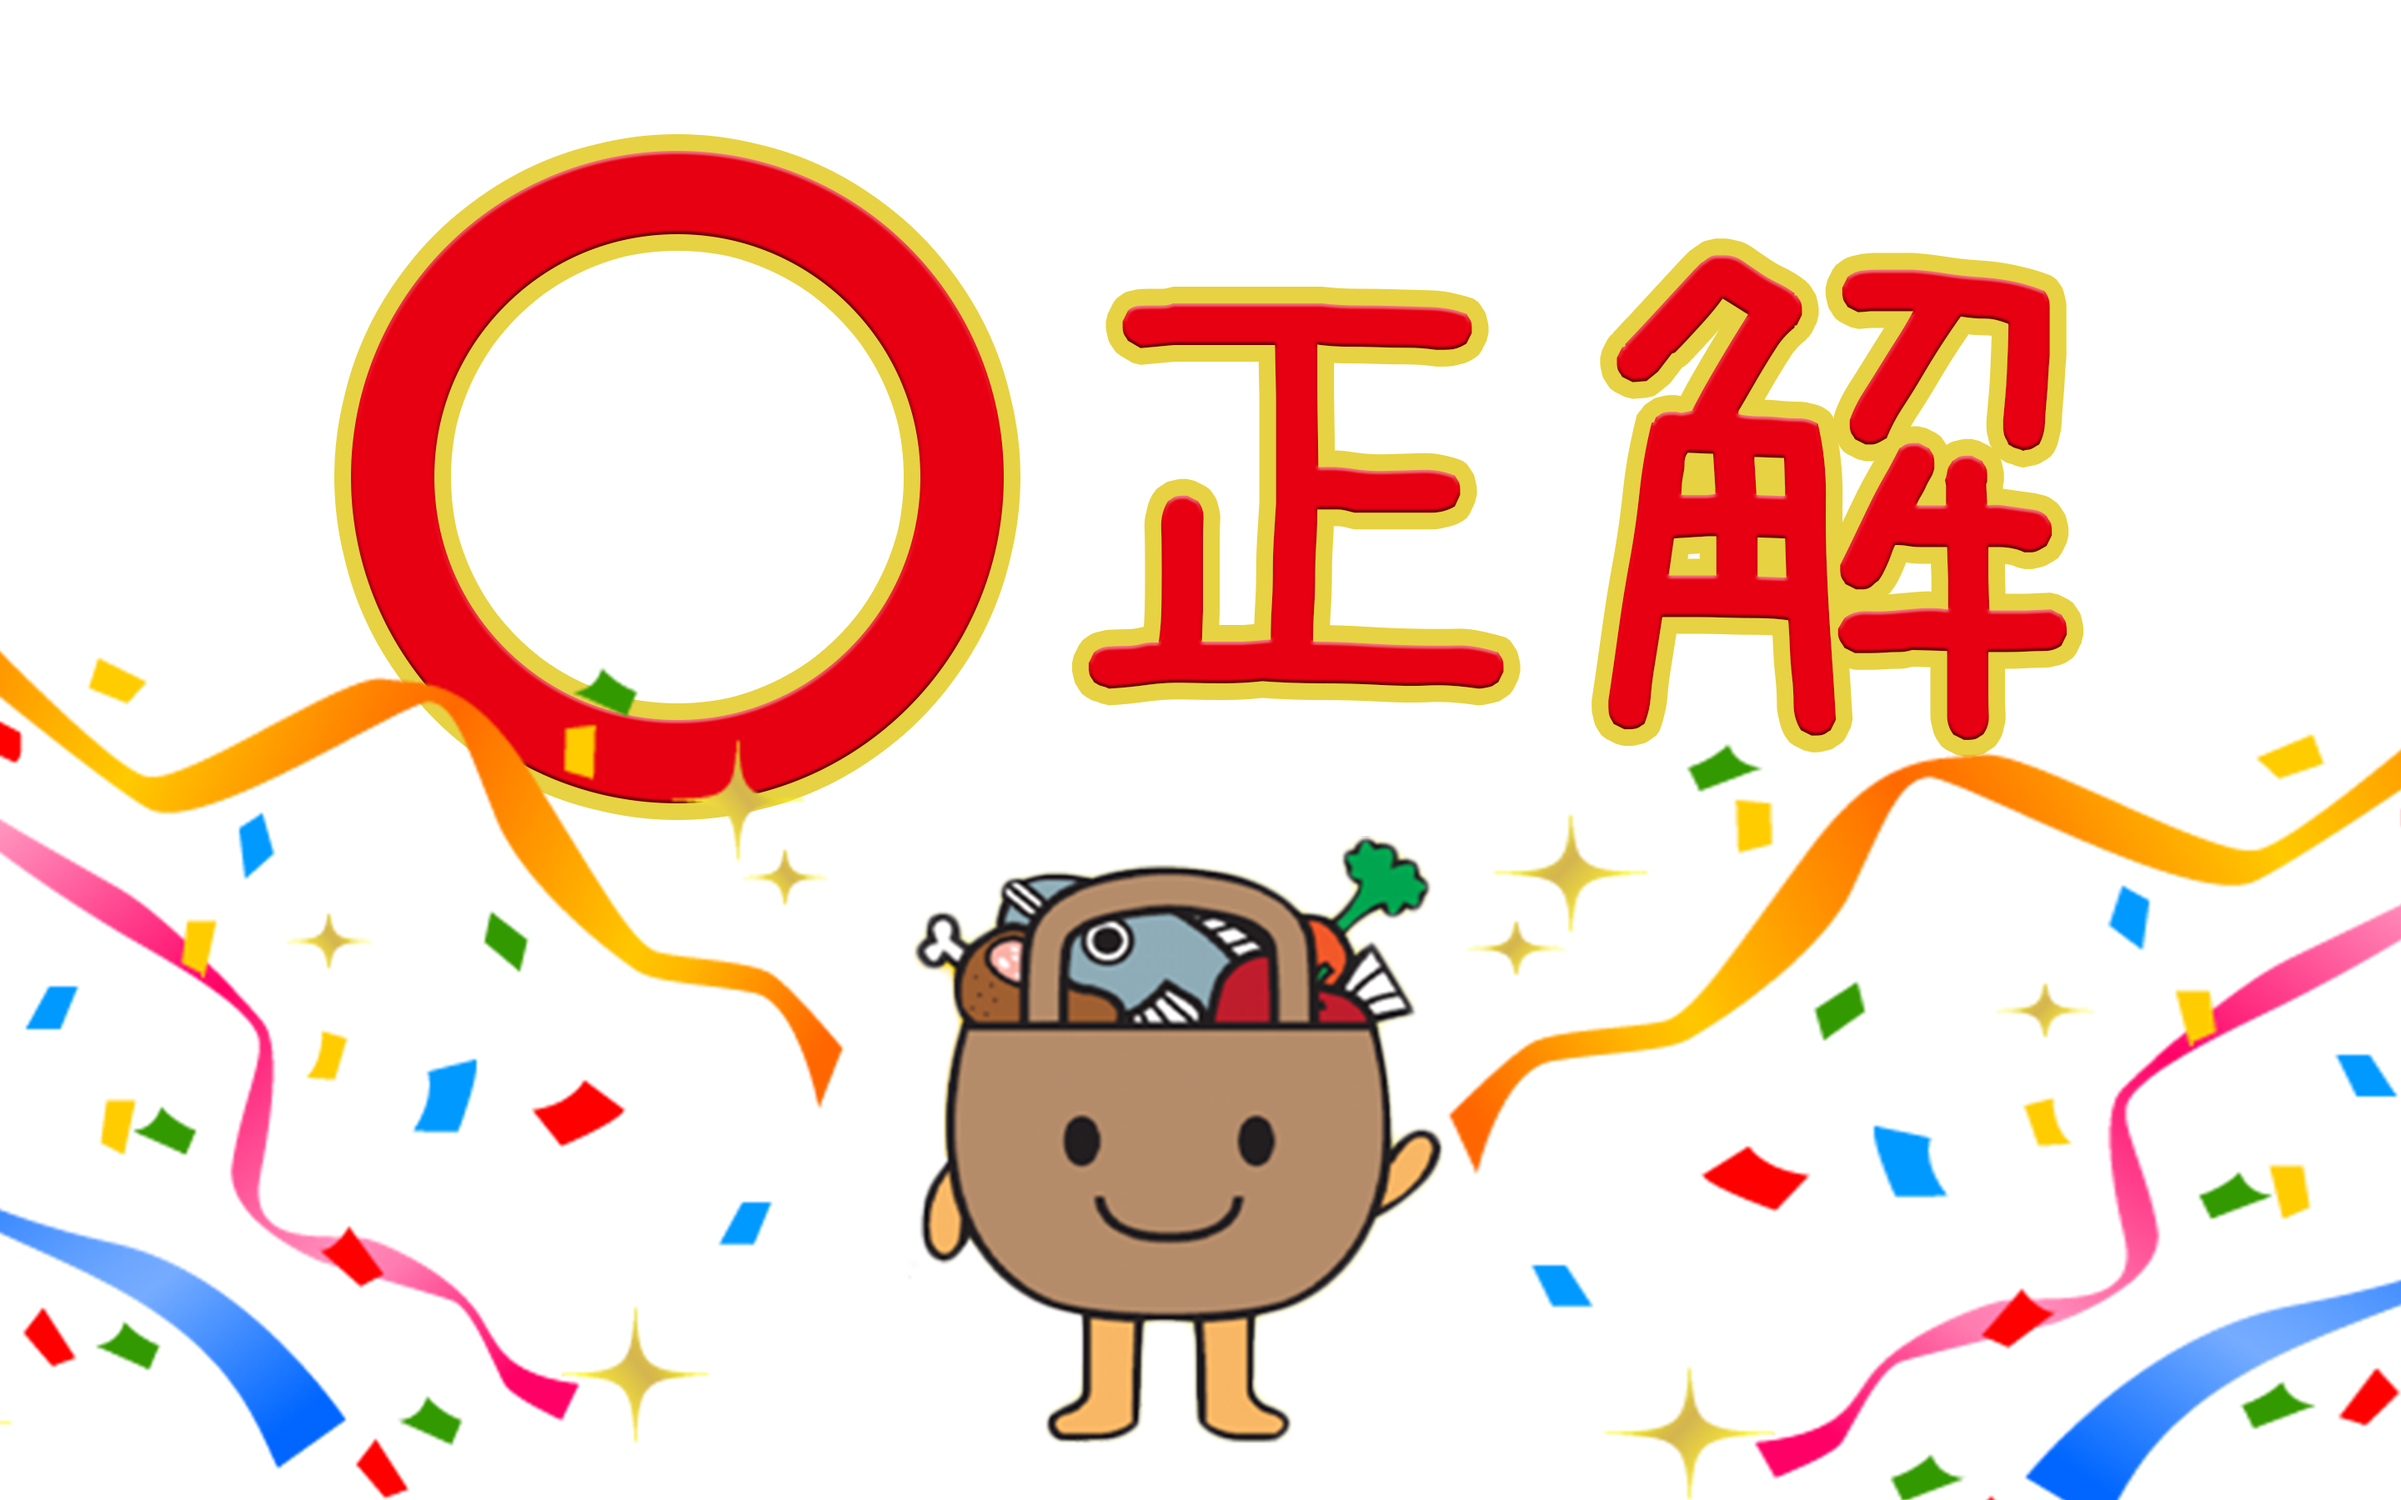
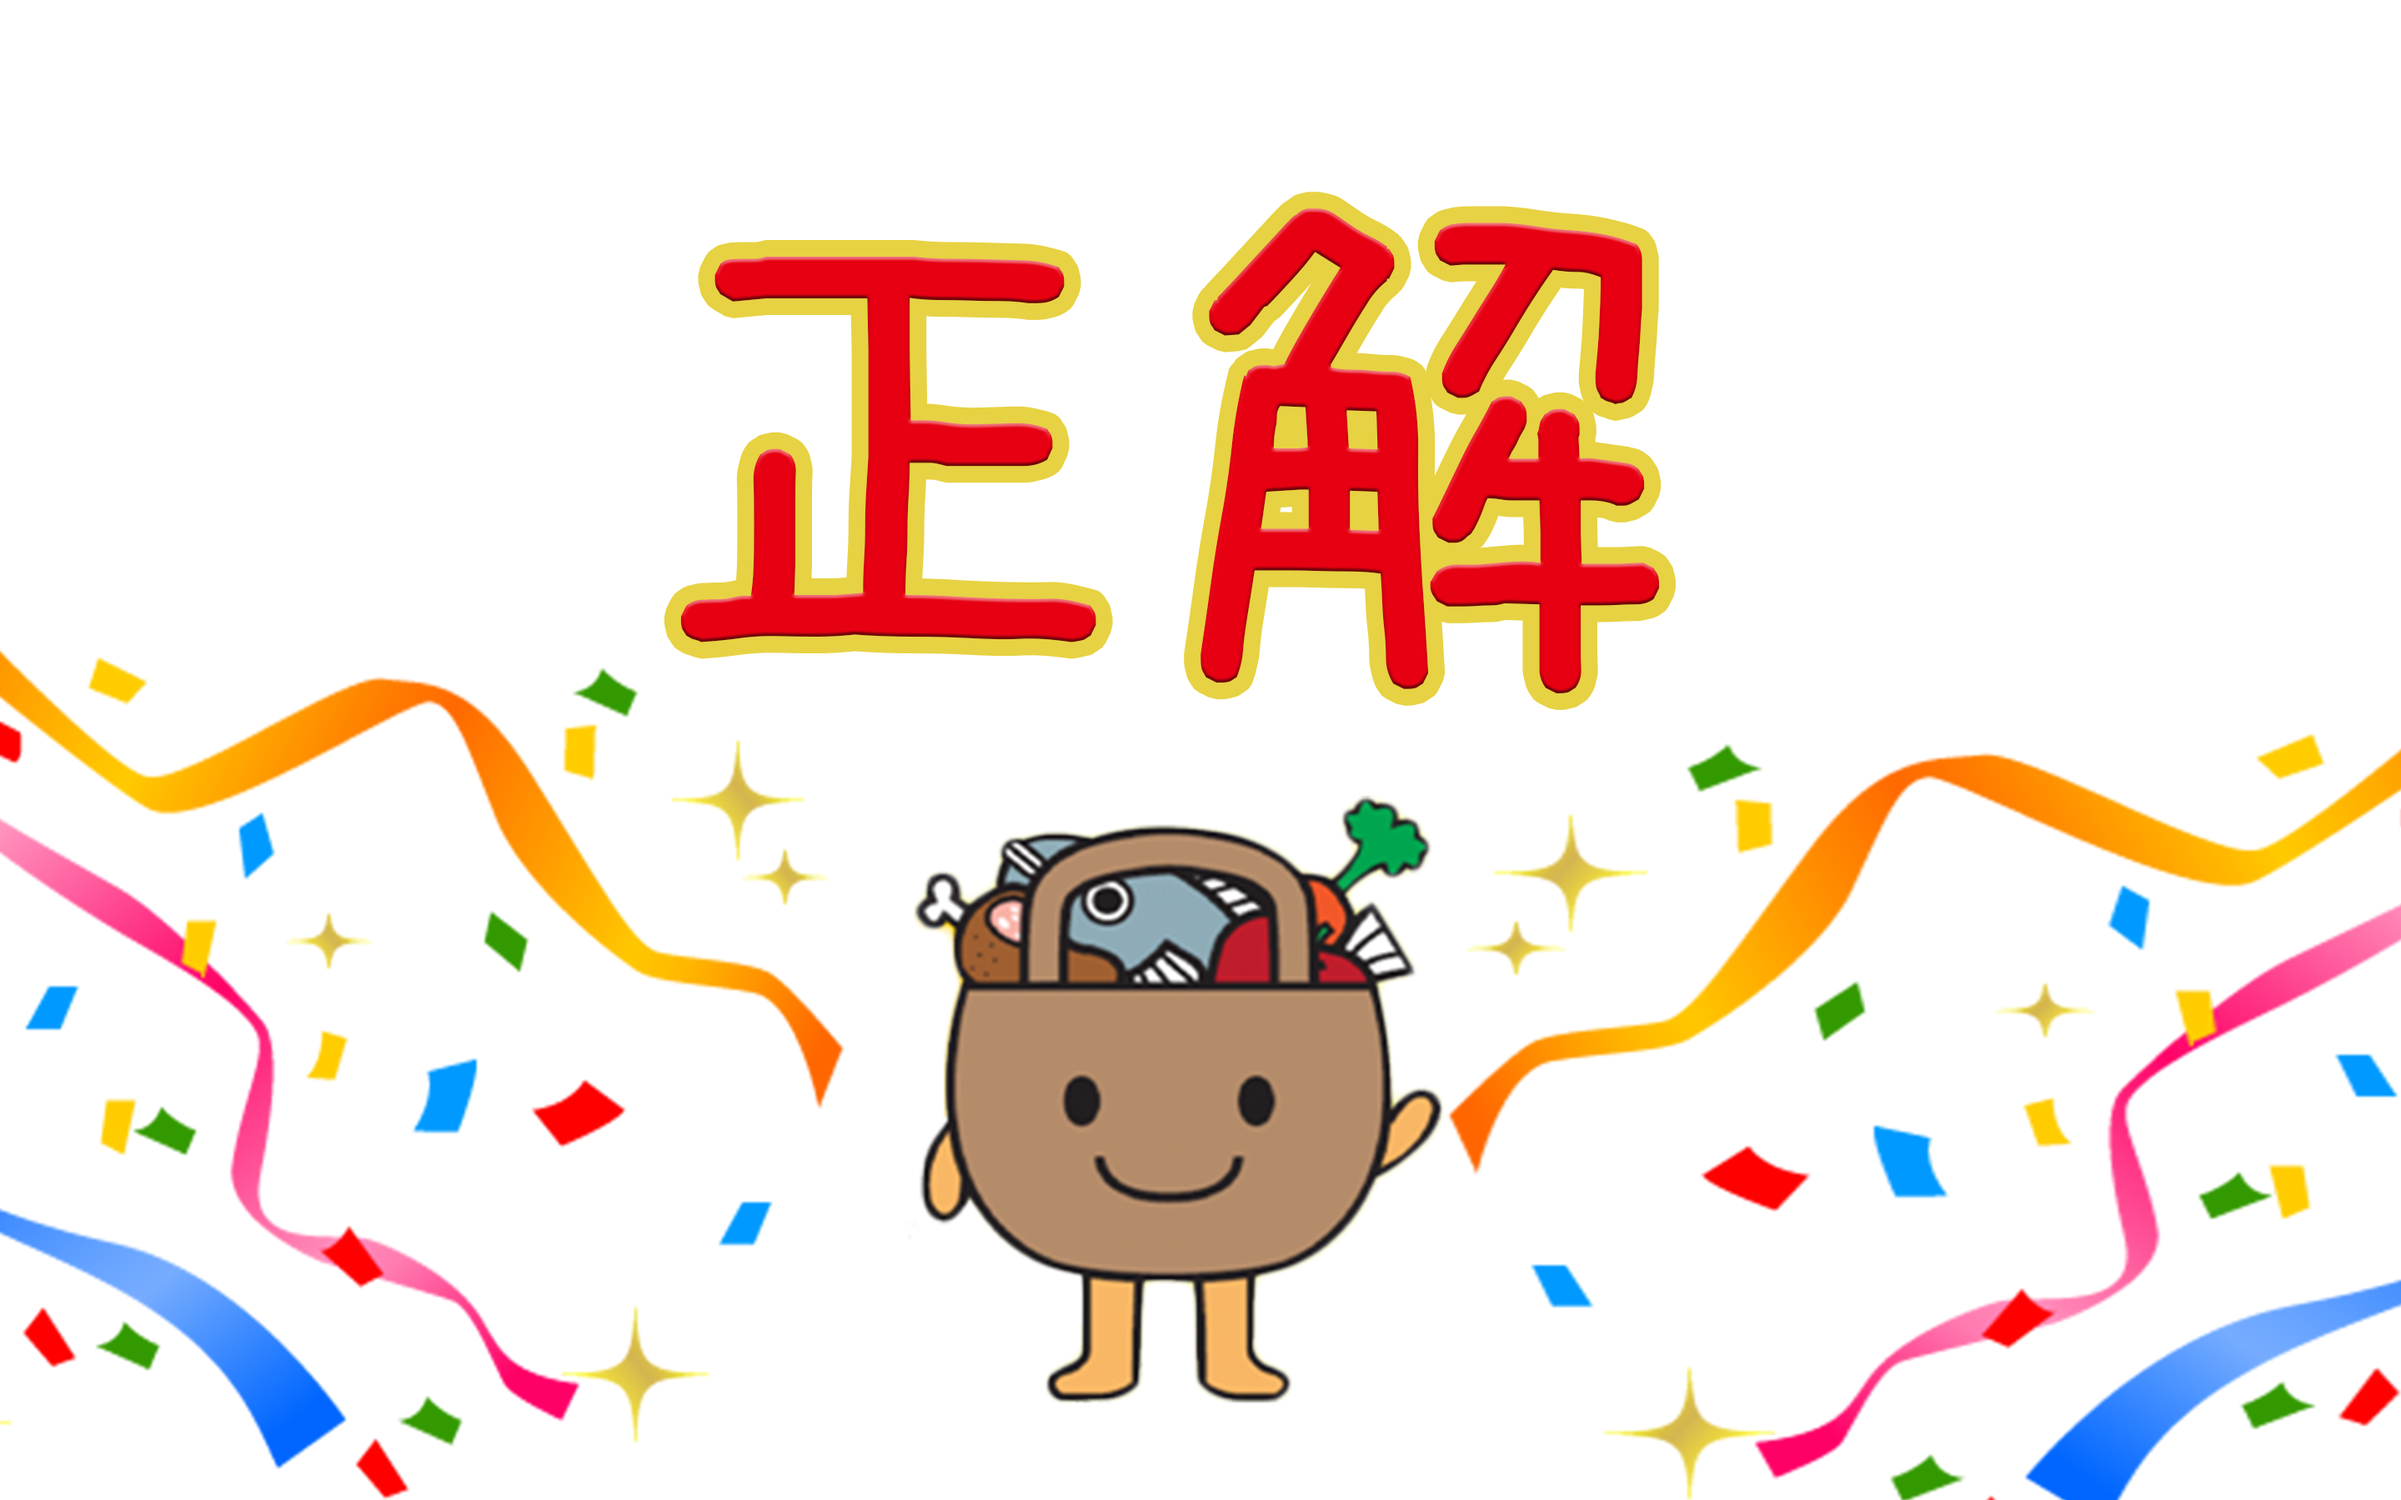
[update] 問題表示画面のおこをそーごちゃんに変更

Changed region(s): [[0.125, 0.0933, 0.875, 0.56], [0.375, 0.5289, 0.625, 0.9644]]

diff --git a/html/index.html b/html/index.html
@@ -61,7 +61,7 @@
               </div>
               <div class="quiz__choice clearfix">
                 <p class="quiz__choice__A"><a class="link" id="link_A" href="#"><img class="image" src="../img/icon_maru.png" alt="選択肢まる"></a></p>
-                <p class="quiz__choice__soogo"><img class="image" src="../img/jk01.png" alt="仮そーご"></p>
+                <p class="quiz__choice__soogo"><img class="image" src="../img/soogo01.png" alt="仮そーご"></p>
                 <p class="quiz__choice__B"><a class="link" id="link_B" href="#"><img class="image" src="../img/icon_batu.png" alt="選択肢ばつ"></a></p>
               </div>
             </div>

diff --git a/css/style.css b/css/style.css
@@ -195,6 +195,8 @@ html, body {
         .fullpage #section3 .slide3_1 .back_layer .quiz__choice__soogo, .fullpage #section3 .slide3_3 .back_layer .quiz__choice__soogo {
           width: 200px;
           float: left; }
+          .fullpage #section3 .slide3_1 .back_layer .quiz__choice__soogo .image, .fullpage #section3 .slide3_3 .back_layer .quiz__choice__soogo .image {
+            margin: 50px 0 0 0; }
     .fullpage #section3 .slide3_1 .back_layer .slide_position_bar, .fullpage #section3 .slide3_3 .back_layer .slide_position_bar {
       position: absolute;
       top: auto;

diff --git a/sass/style.scss b/sass/style.scss
@@ -282,6 +282,10 @@ html,body {
                         &__soogo {
                             width: 200px;
                             float: left;
+
+                            .image {
+                                margin: 50px 0 0 0;
+                            }
                         }
                     }
                 }//  .quiz
